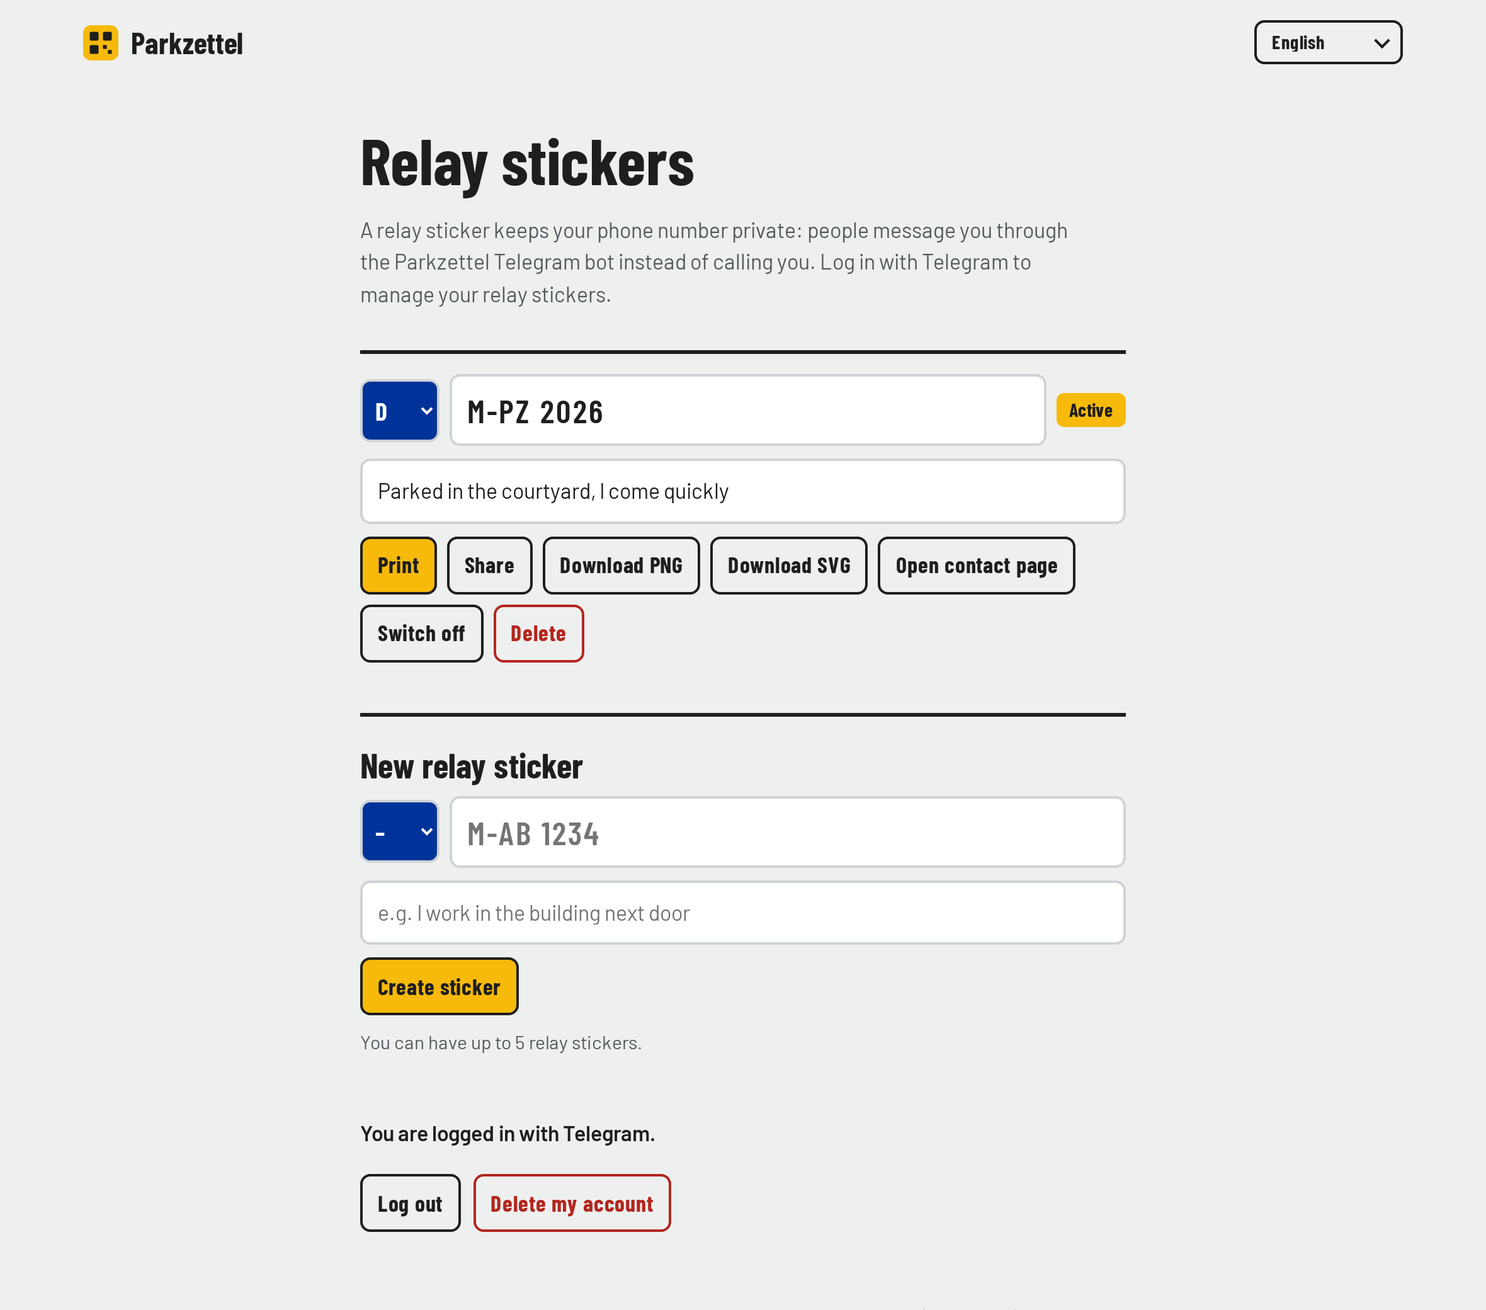
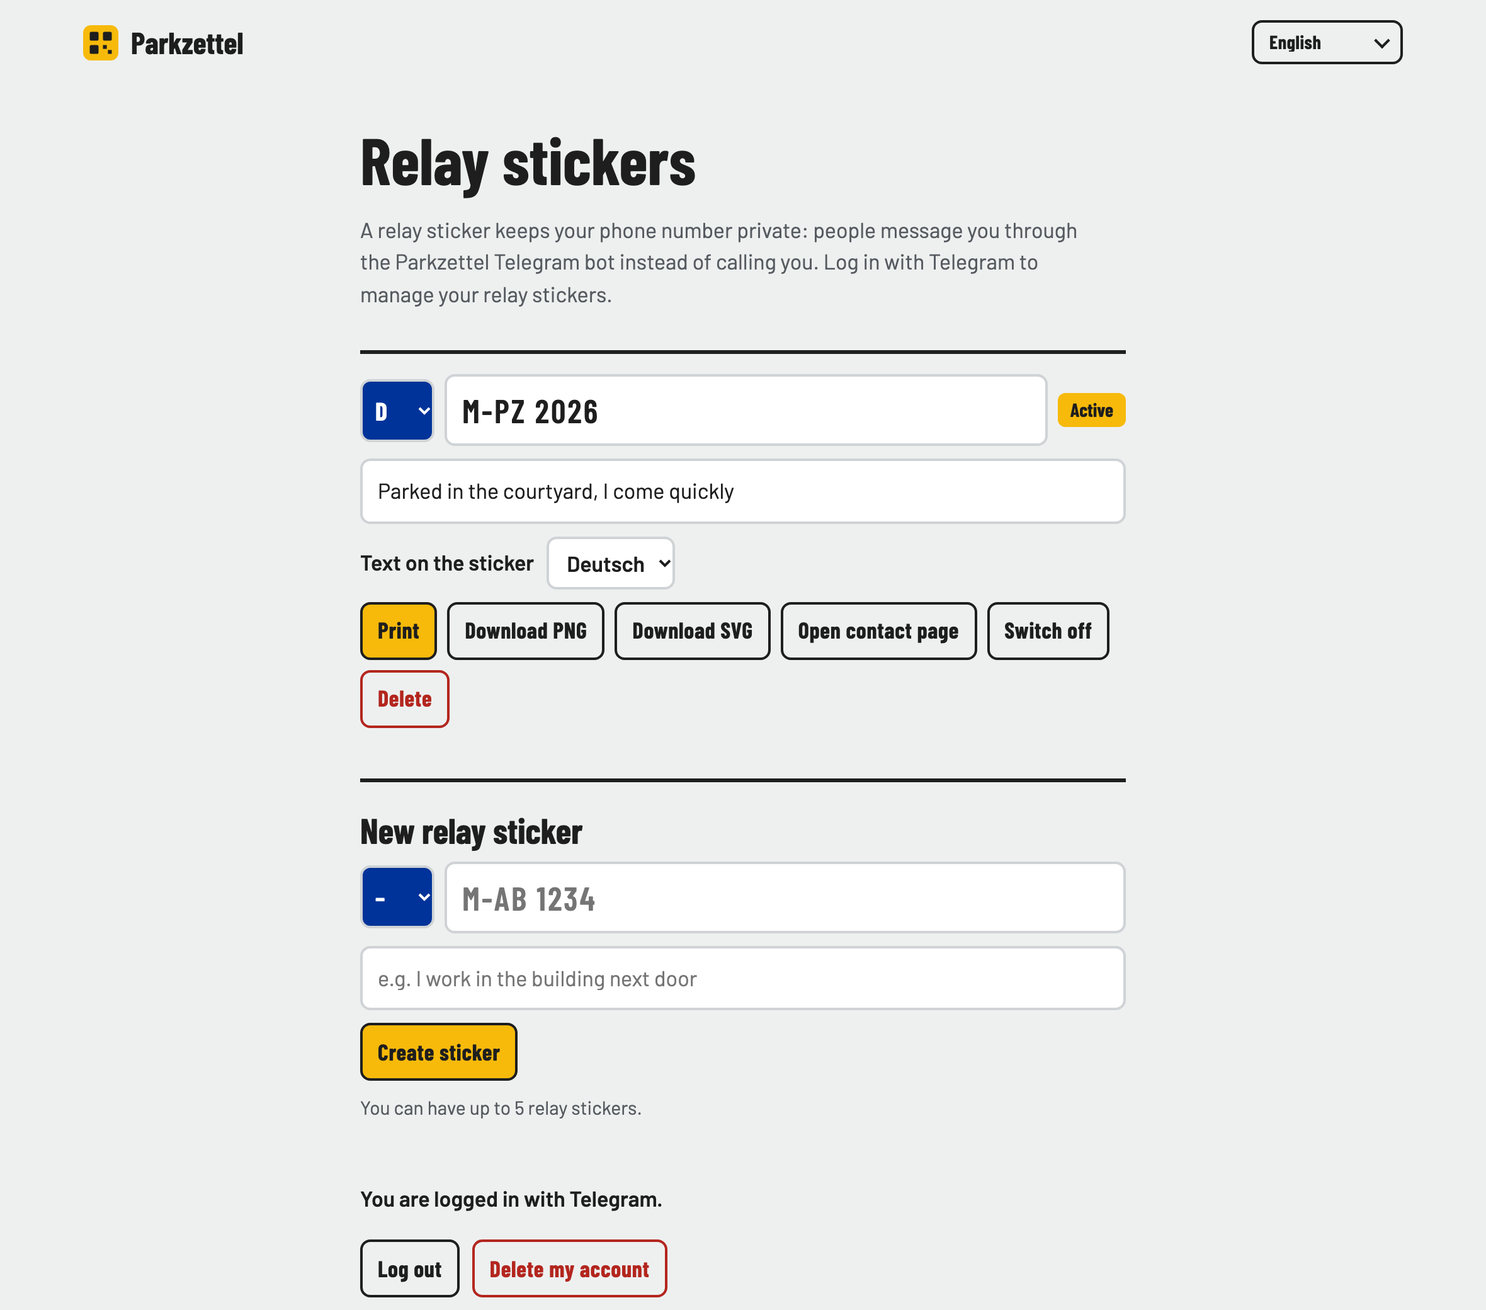
Choose the sticker's language and support non-EU plates (#14)
* Let owners choose the language printed on the sticker

The sticker text followed the owner's UI language, so an English-speaking
owner of a German car printed "Blocking you?" for German passers-by. The
generator and account page now have a "Text on the sticker" select that
defaults to the plate country's language (D/A: German, I: Italian, else
the UI language) until the owner picks one. Nothing is saved or encoded
in the token.

* Support non-EU plates

Switzerland, Liechtenstein, the UK, Norway, Iceland, Ukraine, Moldova,
Turkey and the Western Balkans can now be picked as the plate country.
Their plates have no EU band, so the contact page, relay page, generator
and account page draw them plain white with the code in an oval. The
token format is unchanged: the country key already accepted these codes.

* Address review: keep sticker language picks, fix country codes

- Keep a picked sticker language when the account list re-renders, and
  share the follow-the-country logic between generator and account page
- UK, IRL and M default the sticker text to English
- North Macedonia is NMK since 2019; add Kosovo (RKS)
- Update the item's non-EU style as soon as the country changes
- Remove a duplicated line; correct the plate and codec comments

* Reset cleared sticker fields after saving

The API leaves an empty country or note out of its response, so merging
it kept the old value and the sticker language and plate style followed
the cleared country.

---------

diff --git a/src/account.ts b/src/account.ts
@@ -1,12 +1,10 @@
 import { mountChrome } from './chrome'
-import { lang, onLangChange, t, translate, type Key } from './i18n'
-import { COUNTRIES } from './plate'
+import { lang, onLangChange, t, translate, type FullLang, type Key } from './i18n'
+import { COUNTRY_OPTIONS, isNonEu } from './plate'
 import { canShareFiles, printSticker, shareSticker } from './share'
-import { stickerSvg, svgToPngBlob } from './sticker'
+import { followCountry, STICKER_LANG_OPTIONS, stickerSvg, stickerText, svgToPngBlob } from './sticker'
 
 const BOT_USERNAME = 'ParkzettelBot'
-
-const COUNTRY_OPTIONS = `<option value="">–</option>${COUNTRIES.map((c) => `<option>${c}</option>`).join('')}`
 
 const TEMPLATE = `
 <section class="account">
@@ -49,6 +47,7 @@ const ITEM = `
     <span class="badge"></span>
   </div>
   <input name="note" maxlength="100" data-i18n-ph="f.notePh" data-i18n-label="f.note" />
+  <label class="sticker-lang"><span data-i18n="p.lang"></span><select name="stickerLang">${STICKER_LANG_OPTIONS}</select></label>
   <div class="item-actions">
     <button type="button" class="btn primary" data-act="print" data-i18n="p.print"></button>
     <button type="button" class="btn" data-act="share" hidden data-i18n="p.share"></button>
@@ -107,17 +106,19 @@ function showError(key: Key | null) {
   errorEl.textContent = key ? t(key) : ''
 }
 
+// Sticker languages the owner picked, by sticker id; render() rebuilds the items, so they live here.
+const pickedLangs = new Map<string, FullLang>()
+
 // Per-item language refreshers; replaced on every render so detached items don't pile up.
 let itemSyncs: (() => void)[] = []
 
 const stickerUrl = (id: string) => new URL(`/s/${id}`, location.origin).href
 
-const buildSvg = (s: StickerView) =>
-  stickerSvg(stickerUrl(s.id), { title: t('s.title'), sub: t('s.sub'), domain: location.host }, ['message'], 'H')
+const buildSvg = (s: StickerView, l: FullLang) => stickerSvg(stickerUrl(s.id), stickerText(l), ['message'], 'H')
 const fileName = (s: StickerView) => `parkzettel-${s.plate.replace(/[^A-Z0-9]+/gi, '-')}`
 
-async function download(s: StickerView, kind: 'png' | 'svg') {
-  const svg = await buildSvg(s)
+async function download(s: StickerView, l: FullLang, kind: 'png' | 'svg') {
+  const svg = await buildSvg(s, l)
   const blob = kind === 'svg' ? new Blob([svg], { type: 'image/svg+xml' }) : await svgToPngBlob(svg)
   const a = document.createElement('a')
   a.href = URL.createObjectURL(blob)
@@ -135,9 +136,13 @@ function renderItem(s: StickerView): HTMLLIElement {
   field('plate').value = s.plate
   field('note').value = s.note ?? ''
   li.querySelector<HTMLAnchorElement>('[data-act="open"]')!.href = stickerUrl(s.id)
+  // Not saved to the server: it only affects the next print or download.
+  const stickerLang = followCountry(field<HTMLSelectElement>('stickerLang'), () => s.country, pickedLangs.get(s.id))
 
   const sync = () => {
     translate(li)
+    stickerLang()
+    field('country').classList.toggle('non-eu', isNonEu(s.country))
     li.classList.toggle('off', !s.active)
     li.querySelector('.badge')!.textContent = t(s.active ? 'acc.active' : 'acc.inactive')
     li.querySelector('[data-act="toggle"]')!.textContent = t(s.active ? 'acc.turnOff' : 'acc.turnOn')
@@ -148,7 +153,9 @@ function renderItem(s: StickerView): HTMLLIElement {
   // Edits apply to the printed sticker right away; that is the point of relay stickers.
   const save = async (patch: Record<string, unknown>) => {
     try {
-      Object.assign(s, (await api<{ sticker: StickerView }>(`/api/stickers/${s.id}`, 'POST', { action: 'update', ...patch })).sticker)
+      const { sticker } = await api<{ sticker: StickerView }>(`/api/stickers/${s.id}`, 'POST', { action: 'update', ...patch })
+      // Cleared optional fields are missing from the JSON, so reset them instead of keeping the old values.
+      Object.assign(s, { country: undefined, note: undefined }, sticker)
       showError(null)
       sync()
     } catch {
@@ -157,15 +164,20 @@ function renderItem(s: StickerView): HTMLLIElement {
   }
   li.addEventListener('change', (e) => {
     const el = e.target as HTMLInputElement
+    if (el.name === 'stickerLang') {
+      pickedLangs.set(s.id, el.value as FullLang)
+      return
+    }
+    if (el.name === 'country') el.classList.toggle('non-eu', isNonEu(el.value))
     if (el.name === 'plate') el.value = el.value.trim().toUpperCase()
     save({ [el.name]: el.value })
   })
-  li.querySelector('[data-act="print"]')!.addEventListener('click', async () => printSticker(await buildSvg(s)))
+  li.querySelector('[data-act="print"]')!.addEventListener('click', async () => printSticker(await buildSvg(s, stickerLang())))
   const share = li.querySelector<HTMLElement>('[data-act="share"]')!
   share.hidden = !canShareFiles()
-  share.addEventListener('click', async () => shareSticker(await buildSvg(s), `${fileName(s)}.png`))
-  li.querySelector('[data-act="png"]')!.addEventListener('click', () => download(s, 'png'))
-  li.querySelector('[data-act="svg"]')!.addEventListener('click', () => download(s, 'svg'))
+  share.addEventListener('click', async () => shareSticker(await buildSvg(s, stickerLang()), `${fileName(s)}.png`))
+  li.querySelector('[data-act="png"]')!.addEventListener('click', () => download(s, stickerLang(), 'png'))
+  li.querySelector('[data-act="svg"]')!.addEventListener('click', () => download(s, stickerLang(), 'svg'))
   li.querySelector('[data-act="toggle"]')!.addEventListener('click', () => save({ active: !s.active }))
   li.querySelector('[data-act="remove"]')!.addEventListener('click', async () => {
     if (!confirm(t('acc.removeConfirm'))) return
@@ -212,6 +224,8 @@ onLangChange(() => {
   if (!root.querySelector<HTMLElement>('.acc-out')!.hidden && widget.childElementCount) mountWidget(widget)
 })
 
+const newCountry = root.querySelector<HTMLSelectElement>('.new-sticker [name="country"]')!
+newCountry.addEventListener('change', () => newCountry.classList.toggle('non-eu', isNonEu(newCountry.value)))
 root.querySelector('.new-sticker')!.addEventListener('submit', async (e) => {
   e.preventDefault()
   const form = e.target as HTMLFormElement
@@ -219,6 +233,7 @@ root.querySelector('.new-sticker')!.addEventListener('submit', async (e) => {
   try {
     await api('/api/stickers', 'POST', data)
     form.reset()
+    newCountry.classList.remove('non-eu')
     showError(null)
     render()
   } catch (err) {

diff --git a/src/generator.ts b/src/generator.ts
@@ -1,8 +1,8 @@
 import { PHONE_RE, seal, TELEGRAM_RE, type Contact } from './codec'
 import { lang, onLangChange, t, translate, type Key } from './i18n'
-import { COUNTRIES, EU_STARS_SVG } from './plate'
+import { COUNTRY_OPTIONS, EU_STARS_SVG, isNonEu } from './plate'
 import { canShareFiles, printSticker, shareSticker } from './share'
-import { stickerSvg, svgToPngBlob, type Channel } from './sticker'
+import { followCountry, STICKER_LANG_OPTIONS, stickerSvg, stickerText, svgToPngBlob, type Channel } from './sticker'
 
 // The plate sits outside the <form> in the hero; form="gen" still makes it a form control.
 const TEMPLATE = `
@@ -12,10 +12,7 @@ const TEMPLATE = `
   <div class="plate plate-edit">
     <label class="plate-eu">
       ${EU_STARS_SVG}
-      <select name="country" form="gen" data-i18n-label="f.country">
-        <option value="">–</option>
-        ${COUNTRIES.map((c) => `<option>${c}</option>`).join('')}
-      </select>
+      <select name="country" form="gen" data-i18n-label="f.country">${COUNTRY_OPTIONS}</select>
     </label>
     <input name="plate" form="gen" class="plate-num" autocomplete="off" autocapitalize="characters"
       spellcheck="false" maxlength="16" placeholder="M-AB 1234" data-i18n-label="f.plate" />
@@ -25,6 +22,7 @@ const TEMPLATE = `
 </section>
 <aside class="preview">
   <div class="sticker draft" aria-live="polite"></div>
+  <label class="sticker-lang"><span data-i18n="p.lang"></span><select name="stickerLang">${STICKER_LANG_OPTIONS}</select></label>
   <div class="actions">
     <button type="button" class="btn primary" data-act="print" disabled data-i18n="p.print"></button>
     <button type="button" class="btn" data-act="share" disabled hidden data-i18n="p.share"></button>
@@ -132,6 +130,7 @@ export function renderGenerator(root: HTMLElement) {
   const btn = (act: string) => root.querySelector<HTMLButtonElement>(`[data-act="${act}"]`)!
   const testLink = root.querySelector<HTMLAnchorElement>('[data-act="test"]')!
   field<HTMLSelectElement>('country').value = DEFAULT_COUNTRY[lang()] ?? ''
+  const stickerLang = followCountry(root.querySelector<HTMLSelectElement>('[name="stickerLang"]')!, () => field<HTMLSelectElement>('country').value)
 
   let current: { url: string; svg: string; plate: string } | null = null
   let error: Key | null = null
@@ -170,7 +169,8 @@ export function renderGenerator(root: HTMLElement) {
       if (field('wa').checked) channels.push('whatsapp')
       if (field('telegram').value) channels.push('telegram')
     }
-    const svg = await stickerSvg(url, { title: t('s.title'), sub: t('s.sub'), domain: location.host }, channels)
+    root.querySelector('.plate-edit')!.classList.toggle('non-eu', isNonEu(field<HTMLSelectElement>('country').value))
+    const svg = await stickerSvg(url, stickerText(stickerLang()), channels)
     if (mine !== seq) return // a newer edit superseded this one
     current = res.ok ? { url, svg, plate: res.contact.plate } : null
     stickerEl.innerHTML = svg

diff --git a/src/sticker.ts b/src/sticker.ts
@@ -1,5 +1,6 @@
 import QRCode from 'qrcode'
 import fontUrl from '@fontsource/barlow-condensed/files/barlow-condensed-latin-700-normal.woff2?inline'
+import { lang, LANG_NAMES, LANGS, tIn, type FullLang, type Lang } from './i18n'
 import { ICONS, type IconName } from './icons'
 
 const W = 400
@@ -24,6 +25,30 @@ export interface StickerText {
   sub: string
   domain: string // printed under the code so people can see where it leads before scanning
 }
+
+// The printed text is for passers-by, so it follows the plate's country rather than the owner's UI language.
+// Only full languages: the embedded font covers basic Latin, not Polish, Turkish or Cyrillic letters.
+// Switzerland is multilingual, so CH keeps the UI language.
+const COUNTRY_LANG: Record<string, FullLang> = { D: 'de', A: 'de', FL: 'de', I: 'it', UK: 'en', IRL: 'en', M: 'en' }
+
+export const stickerLangFor = (country: string | undefined, ui: Lang): FullLang =>
+  COUNTRY_LANG[country ?? ''] ?? (ui in LANGS ? (ui as FullLang) : 'en')
+
+// Keeps a sticker-language select on the plate country's language until the owner picks one (or `picked`
+// restores an earlier pick). Returns the language to print in.
+export function followCountry(select: HTMLSelectElement, country: () => string | undefined, picked?: FullLang) {
+  if (picked) select.value = picked
+  let chosen = !!picked
+  select.addEventListener('change', () => (chosen = true))
+  return (): FullLang => {
+    if (!chosen) select.value = stickerLangFor(country(), lang())
+    return select.value as FullLang
+  }
+}
+
+export const STICKER_LANG_OPTIONS = (Object.keys(LANGS) as FullLang[]).map((l) => `<option value="${l}">${LANG_NAMES[l]}</option>`).join('')
+
+export const stickerText = (l: FullLang): StickerText => ({ title: tIn(l, 's.title'), sub: tIn(l, 's.sub'), domain: location.host })
 
 // Self-contained SVG (no external fonts or images) so it can be printed as is or rasterized to PNG.
 // Private stickers carry a long URL, so they stay at level M to keep the code scannable; relay URLs are

diff --git a/src/style.css b/src/style.css
@@ -233,6 +233,30 @@ select option {
   overflow-wrap: anywhere;
 }
 
+/* Non-EU plates (CH, UK, ...) have no blue band: the code sits in an oval on the white plate. */
+.plate.non-eu .plate-eu {
+  background: transparent;
+  color: #1e1e1e;
+}
+
+.plate.non-eu .plate-stars {
+  display: none;
+}
+
+.plate.non-eu .plate-country,
+.plate.non-eu select {
+  border: 2px solid #1e1e1e;
+  border-radius: 50%;
+  padding: 4px 7px;
+  font-size: 0.85em;
+  color: #1e1e1e;
+}
+
+.plate.non-eu .plate-eu:has(select) {
+  width: auto;
+  padding-left: 10px;
+}
+
 /* ---------- generator ---------- */
 
 .bench {
@@ -329,6 +353,28 @@ select option {
 
 .sticker.draft svg svg {
   opacity: 0.12;
+}
+
+/* Language of the printed text; sits with the sticker because it changes the print, not the page. */
+.sticker-lang {
+  display: flex;
+  align-items: center;
+  gap: 10px;
+  margin-bottom: 14px;
+  font-weight: 600;
+}
+
+.sticker-lang select {
+  font: inherit;
+  color: var(--ink);
+  background: var(--raised);
+  border: 2px solid var(--line);
+  border-radius: 8px;
+  padding: 8px 10px;
+}
+
+.sticker-item .sticker-lang {
+  margin-bottom: 0;
 }
 
 .actions {
@@ -726,6 +772,12 @@ textarea:focus {
   border-radius: 8px;
   background: var(--eu-blue);
   color: #fff;
+}
+
+.item-row select.non-eu,
+.new-row select.non-eu {
+  background: #fff;
+  color: #1e1e1e;
 }
 
 .plate-input {

diff --git a/src/plate.ts b/src/plate.ts
@@ -4,6 +4,21 @@ export const COUNTRIES = [
   'SLO', 'H', 'HR', 'RO', 'BG', 'GR', 'CY', 'M', 'EST', 'LV', 'LT',
 ]
 
+// Non-EU European codes (international distinguishing signs). Their plates have no EU stars, and several have a
+// national band of their own, so they are drawn simplified: a white plate with the code in an oval, like the
+// country sticker on the back of a car.
+export const NON_EU = ['CH', 'FL', 'UK', 'N', 'IS', 'AL', 'BIH', 'NMK', 'MNE', 'RKS', 'SRB', 'MD', 'UA', 'TR']
+
+export const isNonEu = (country?: string) => !!country && NON_EU.includes(country)
+
+export const COUNTRY_OPTIONS = `<option value="">–</option>${[...COUNTRIES, ...NON_EU].map((c) => `<option>${c}</option>`).join('')}`
+
+// Shows a decoded or stored country on a .plate. The value is untrusted, so it goes in as text.
+export function showCountry(plate: Element, country?: string) {
+  plate.querySelector('.plate-country')!.textContent = country ?? ''
+  plate.classList.toggle('non-eu', isNonEu(country))
+}
+
 const STARS = Array.from({ length: 12 }, (_, i) => {
   const a = (i / 12) * Math.PI * 2
   return `<circle cx="${(10 + Math.sin(a) * 6.5).toFixed(2)}" cy="${(10 - Math.cos(a) * 6.5).toFixed(2)}" r="1.1"/>`

diff --git a/src/relay.ts b/src/relay.ts
@@ -1,6 +1,6 @@
 import { onLangChange, t, translate, type Key } from './i18n'
 import { icon } from './icons'
-import { EU_STARS_SVG } from './plate'
+import { EU_STARS_SVG, showCountry } from './plate'
 
 // Scanner page for relay stickers (/s/<id>). The owner's contact details never reach this page:
 // messages go through /api/s/<id>/message and the owner answers via Telegram.
@@ -100,7 +100,7 @@ export async function renderRelay(root: HTMLElement, id: string) {
   }
   const info = (await res.json()) as Info
   root.querySelector('.plate-num')!.textContent = info.plate
-  root.querySelector('.plate-country')!.textContent = info.country ?? ''
+  showCountry(root.querySelector('.plate')!, info.country)
   document.title = `${info.plate} · Parkzettel`
   const note = root.querySelector<HTMLElement>('.note')!
   note.hidden = !info.note

diff --git a/src/i18n.ts b/src/i18n.ts
@@ -24,6 +24,7 @@ const en = {
   'p.copy': 'Copy link',
   'p.copied': 'Copied!',
   'p.test': 'Open contact page',
+  'p.lang': 'Text on the sticker',
   's.title': 'Blocking you?',
   's.sub': 'Scan to contact the driver',
   'p.print': 'Print',
@@ -167,6 +168,7 @@ const de: Dict = {
   'p.copy': 'Link kopieren',
   'p.copied': 'Kopiert!',
   'p.test': 'Kontaktseite öffnen',
+  'p.lang': 'Text auf dem Aufkleber',
   's.title': 'Zugeparkt?',
   's.sub': 'Scannen und Fahrer kontaktieren',
   'p.print': 'Drucken',
@@ -307,6 +309,7 @@ const it: Dict = {
   'p.copy': 'Copia link',
   'p.copied': 'Copiato!',
   'p.test': 'Apri pagina di contatto',
+  'p.lang': "Testo sull'adesivo",
   's.title': 'Ti blocco?',
   's.sub': 'Scansiona e contatta il conducente',
   'p.print': 'Stampa',

diff --git a/src/contact.ts b/src/contact.ts
@@ -1,7 +1,7 @@
 import { open, type Contact } from './codec'
 import { onLangChange, t, translate } from './i18n'
 import { icon } from './icons'
-import { EU_STARS_SVG } from './plate'
+import { EU_STARS_SVG, showCountry } from './plate'
 
 const TEMPLATE = `
 <h1 class="plate">
@@ -29,7 +29,7 @@ const BAD = `
 function fill(root: HTMLElement, c: Contact) {
   translate(root)
   root.querySelector('.plate-num')!.textContent = c.plate
-  root.querySelector('.plate-country')!.textContent = c.country ?? ''
+  showCountry(root.querySelector('.plate')!, c.country)
   document.title = `${c.plate} · Parkzettel`
   const note = root.querySelector<HTMLElement>('.note')!
   note.hidden = !c.note

diff --git a/src/codec.ts b/src/codec.ts
@@ -6,7 +6,7 @@
 
 export interface Contact {
   plate: string
-  country?: string // EU plate country code shown under the stars, e.g. 'D'
+  country?: string // plate country code, e.g. 'D' (EU, under the stars) or 'CH' (non-EU, in an oval)
   call?: string // E.164 phone number for the Call button
   whatsapp?: string // E.164 phone number for WhatsApp
   telegram?: string // username without '@'

diff --git a/README.md b/README.md
@@ -49,7 +49,8 @@ A **relay sticker** hides your phone number: messages reach you through a Telegr
 - Private stickers offer any mix of call, WhatsApp and Telegram. WhatsApp opens with a message that names the plate, written in the scanner's language.
 - Relay stickers let scanners send "You are blocking me in", "Your lights are on" or their own text. You get it in Telegram and answer with one tap or your own text; the scanner sees the answer on the page. Neither side sees the other's number.
 - "Print" gives you a ready-made A4 sheet with two 8 cm stickers and cut lines. On phones, "Share" opens the share sheet. PNG and SVG downloads are there too. Every sticker prints the site's domain under the code, so people can see where it leads before they scan.
-- The whole site speaks German, English and Italian. The pages a scanner sees also come in French, Spanish, Dutch, Polish, Turkish, Ukrainian and Russian. The language follows the browser and can be switched at any time.
+- Plates from the 27 EU countries get the blue EU band. Switzerland, Liechtenstein, the UK, Norway, Iceland, Albania, Bosnia and Herzegovina, North Macedonia, Montenegro, Kosovo, Serbia, Moldova, Ukraine and Turkey are drawn simplified, as a white plate with the country code in an oval.
+- The whole site speaks German, English and Italian. The pages a scanner sees also come in French, Spanish, Dutch, Polish, Turkish, Ukrainian and Russian. The language follows the browser and can be switched at any time. The text printed on the sticker has its own setting (German, English or Italian), which follows the plate's country, so an English-speaking owner of a German car gets "Zugeparkt?" by default.
 - Built for a phone held next to a car: big buttons, dark mode, about 50 kB of gzipped JavaScript with the fonts bundled.
 - The landing page at `/` explains the idea and has a "Share Parkzettel" button; shared links show a preview card (Open Graph, `public/og.png`). The generator lives at `/create`.
 - For search engines the landing page also exists per language at `/de/`, `/en/` and `/it/`, prerendered at build time with `hreflang` links and structured data. The build writes `sitemap.xml` and `robots.txt` too; relay pages and `/account` send `noindex`.

diff --git a/AGENTS.md b/AGENTS.md
@@ -93,7 +93,7 @@ src/sticker.ts     sticker SVG and PNG export
 src/i18n.ts        full (DE/EN/IT) and scanner-tier dictionaries, language detection, picker names
 src/icons.ts       Lucide-derived icon paths (ISC)
 src/share.ts       print sheet (two 80 mm copies, print CSS in style.css) and Web Share of the PNG
-src/plate.ts       EU plate stars and country codes
+src/plate.ts       plate country codes (EU and non-EU), EU stars, showCountry()
 docs/              README screenshots
 netlify.toml       Netlify build + headers (production: parkzettel.fyi)
 ```
@@ -123,6 +123,9 @@ netlify.toml       Netlify build + headers (production: parkzettel.fyi)
   shell, because `/#token`, `/s/<id>` and `/create` load it too. Landing markup must stay in `src/markup.ts`
   with empty `[data-i18n]` elements so both the browser and the build can fill it. `SITE` in `vite.config.ts`
   holds the production origin; update it with the Open Graph tags if the domain changes.
+- The printed sticker text has its own language, separate from the UI: `stickerLangFor()` in `src/sticker.ts`
+  derives it from the plate country until the owner picks one, and it is never saved or encoded in the token. It
+  is limited to DE/EN/IT because the embedded sticker font covers basic Latin only (no Polish, Turkish or Cyrillic).
 - Token length drives QR density. Don't add payload fields or long defaults without a good reason.
 
 ## Commits and PRs
